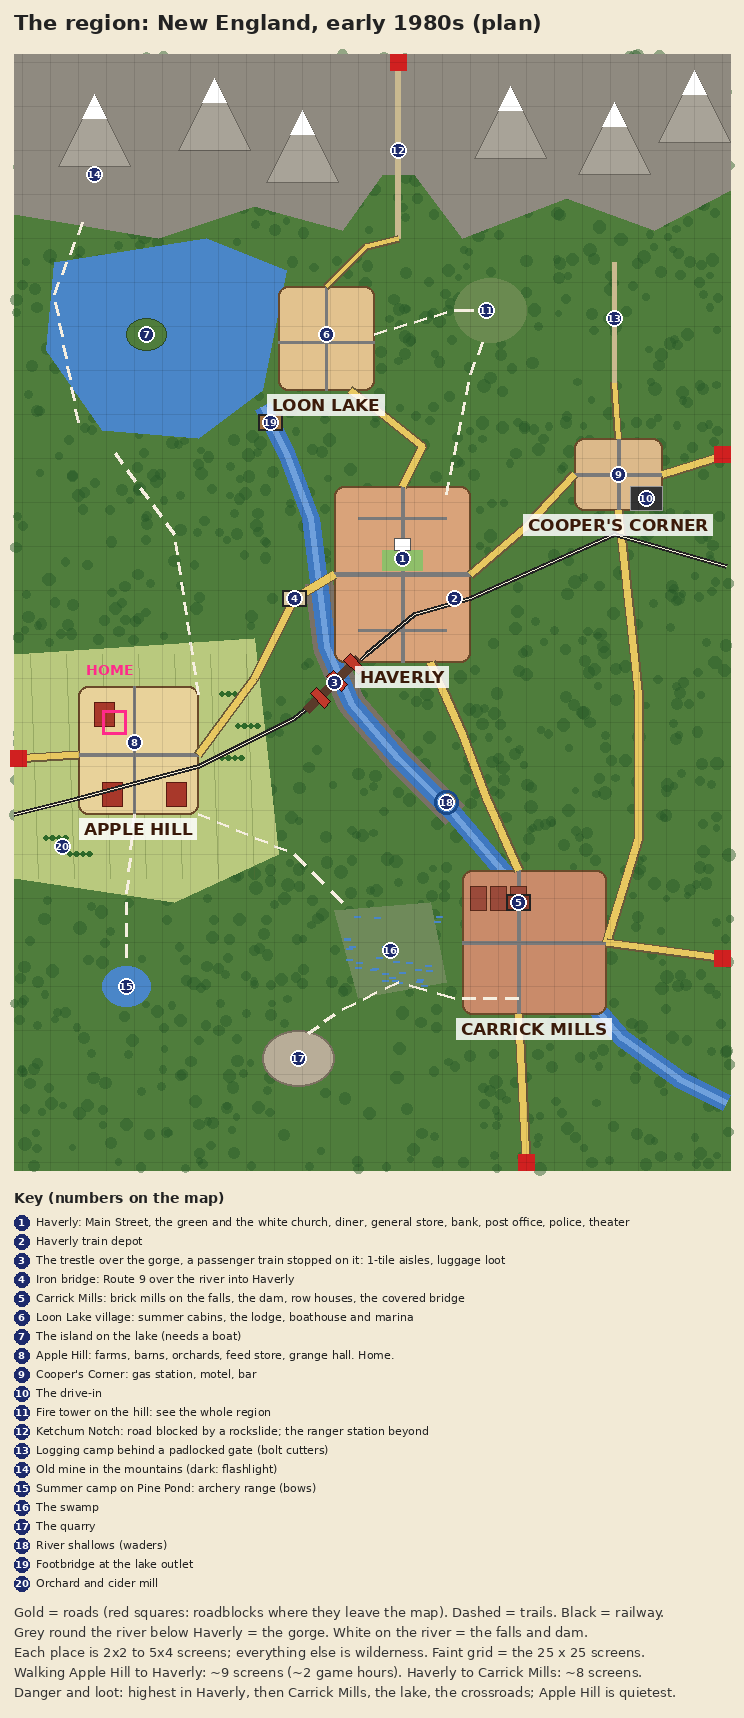
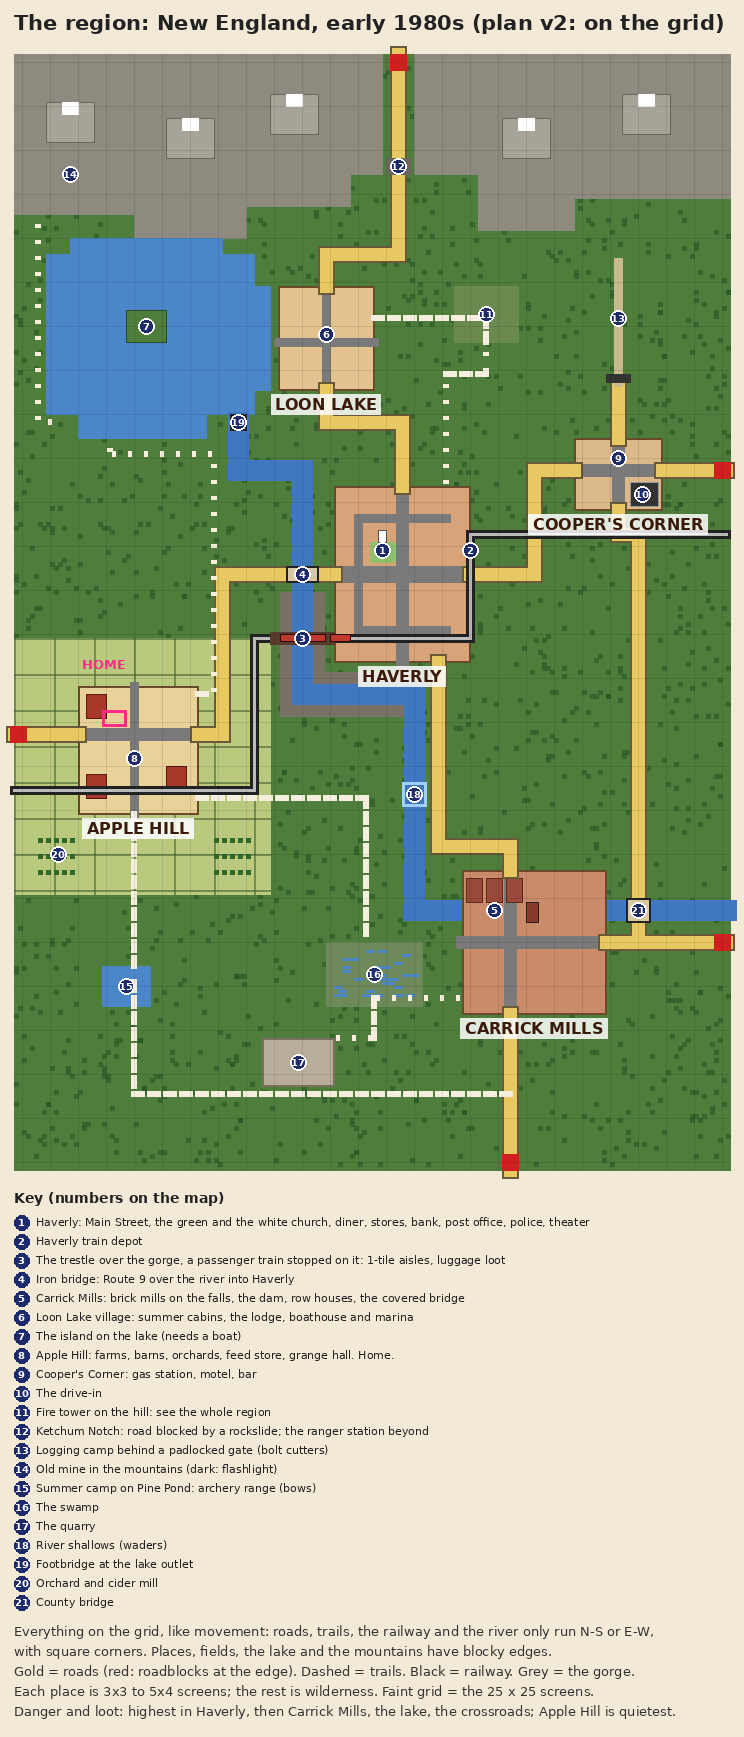
Region plan v2: everything on the grid (straight ways with square corners, blocky edges)
Claude-Session: https://claude.ai/code/session_017J8T9cwTP1Hr7eduLsqAEN

diff --git a/docs/region-plan-map.py b/docs/region-plan-map.py
@@ -1,167 +1,175 @@
 # Draws the region plan (New England, early 1980s) on the real 25x25 screen grid.
-# Coordinates are game tiles: the map is 179 x 279 tiles (screens step 7 across, 11 down).
+# Everything runs on the grid, like the movement: roads, trails, the railway and the river go
+# only north-south or east-west, with square corners; places, fields, the lake and the mountains
+# have blocky edges. Coordinates are game tiles (179 x 279; screens step 7 across, 11 down).
 # Run from the repo root: python3 docs/region-plan-map.py  ->  docs/region-plan.png
 from PIL import Image, ImageDraw, ImageFont
+import random
 
 W, H, S, PAD = 179, 279, 4, 14
 FONT = '/usr/share/fonts/truetype/dejavu/DejaVuSans.ttf'
 BOLD = '/usr/share/fonts/truetype/dejavu/DejaVuSans-Bold.ttf'
 f_small = ImageFont.truetype(FONT, 11); f_num = ImageFont.truetype(BOLD, 10)
-f_label = ImageFont.truetype(BOLD, 14); f_big = ImageFont.truetype(BOLD, 17)
-f_title = ImageFont.truetype(BOLD, 21); f_leg = ImageFont.truetype(FONT, 13); f_legb = ImageFont.truetype(BOLD, 14)
+f_big = ImageFont.truetype(BOLD, 16); f_title = ImageFont.truetype(BOLD, 21)
+f_leg = ImageFont.truetype(FONT, 13); f_legb = ImageFont.truetype(BOLD, 14); f_tag = ImageFont.truetype(BOLD, 13)
 
 P = lambda x, y: (PAD + x * S, PAD + 40 + y * S)
-def poly(d, pts, fill, outline=None, width=1): d.polygon([P(x, y) for x, y in pts], fill=fill, outline=outline, width=width)
-def line(d, pts, fill, width): d.line([P(x, y) for x, y in pts], fill=fill, width=width, joint='curve')
-def dashed(d, pts, fill, width=3, on=3, off=2):
-    import math
+def box(d, x0, y0, x1, y1, fill, outline=None, width=1):
+    x0, x1 = sorted((x0, x1)); y0, y1 = sorted((y0, y1))
+    d.rectangle([P(x0, y0), P(x1, y1)], fill=fill, outline=outline, width=width)
+def way(d, pts, w, fill):
+    """A way of width w tiles along orthogonal corner points (centre line)."""
+    h = w / 2
     for (x0, y0), (x1, y1) in zip(pts, pts[1:]):
-        n = max(1, int(math.hypot(x1 - x0, y1 - y0) / (on + off)))
-        for k in range(n):
-            a, b = k / n, (k + on / (on + off)) / n
-            line(d, [(x0 + (x1 - x0) * a, y0 + (y1 - y0) * a), (x0 + (x1 - x0) * b, y0 + (y1 - y0) * b)], fill, width)
+        assert x0 == x1 or y0 == y1, ('not straight', (x0, y0), (x1, y1))
+        box(d, min(x0, x1) - h, min(y0, y1) - h, max(x0, x1) + h, max(y0, y1) + h, fill)
+def dashed(d, pts, fill, w=1):
+    for (x0, y0), (x1, y1) in zip(pts, pts[1:]):
+        assert x0 == x1 or y0 == y1
+        n = int(abs(x1 - x0) + abs(y1 - y0))
+        for k in range(0, n, 4):
+            a, b = k / n, min(1, (k + 2) / n)
+            box(d, x0 + (x1 - x0) * a - w / 2, y0 + (y1 - y0) * a - w / 2, x0 + (x1 - x0) * b + w / 2, y0 + (y1 - y0) * b + w / 2, fill)
 
 img = Image.new('RGB', (PAD * 2 + W * S, 40 + PAD * 2 + H * S + 1300), '#f2ead6')
 d = ImageDraw.Draw(img, 'RGBA')
-d.text((PAD, 10), 'The region: New England, early 1980s (plan)', font=f_title, fill='#222')
+d.text((PAD, 10), 'The region: New England, early 1980s (plan v2: on the grid)', font=f_title, fill='#222')
 
-# Wilderness: forest everywhere, with clearings, fields round the farm village.
-poly(d, [(0, 0), (W, 0), (W, H), (0, H)], '#4f7d3c')
-import random
+# Forest everywhere, as square trees.
+box(d, 0, 0, W, H, '#4f7d3c')
 rnd = random.Random(1981)
-for _ in range(1400):
-    x, y = rnd.uniform(0, W), rnd.uniform(0, H)
-    r = rnd.uniform(0.8, 1.6)
-    d.ellipse([P(x - r, y - r), P(x + r, y + r)], fill=(40, 90, 40, 120))
-# Mountains along the top, Mount Ketchum, the notch.
-MOUNT = [(0, 0), (W, 0), (W, 34), (160, 44), (138, 36), (112, 46), (100, 30), (92, 30), (82, 44), (60, 38), (36, 46), (0, 40)]
-poly(d, MOUNT, '#8f8a80')
-for (x, y) in [(20, 18), (50, 14), (72, 22), (124, 16), (150, 20), (170, 12)]:
-    poly(d, [(x - 9, y + 10), (x, y - 8), (x + 9, y + 10)], '#a8a398', '#6a665e')
-    poly(d, [(x - 3, y - 2), (x, y - 8), (x + 3, y - 2)], '#ffffff')
-line(d, [(96, 46), (96, 30), (96, 0)], '#c9b98f', 6)   # Ketchum Notch road
-# Farmland round Apple Hill, orchards.
-poly(d, [(0, 150), (60, 146), (66, 200), (40, 212), (0, 206)], '#b9c97e')
-for gx in range(4, 62, 9):
-    line(d, [(gx, 150), (gx + 2, 206)], (90, 110, 50, 90), 1)
-for (x, y) in [(52, 160), (56, 168), (52, 176), (8, 196), (14, 200)]:
-    for k in range(4):
-        d.ellipse([P(x + k * 1.6 - 0.7, y - 0.7), P(x + k * 1.6 + 0.7, y + 0.7)], fill='#2f6a2a')
-# Loon Lake (with its island), Pine Pond, the swamp.
-LAKE = [(10, 52), (48, 46), (68, 54), (66, 64), (62, 84), (46, 96), (22, 94), (8, 74)]
-poly(d, LAKE, '#4a86c8')
-d.ellipse([P(28, 66), P(38, 74)], fill='#4f7d3c', outline='#2a4a2a')
-d.ellipse([P(22, 228), P(34, 238)], fill='#4a86c8')
-poly(d, [(80, 214), (104, 212), (108, 232), (86, 236)], '#6f8a5a')
+for _ in range(2200):
+    x, y = rnd.randrange(0, W), rnd.randrange(0, H)
+    box(d, x, y, x + 1, y + 1, (36, 84, 36, 150))
+# Mountains: a stepped band along the top; the notch road climbs through it.
+for (x0, x1, y1) in [(0, 30, 40), (30, 58, 46), (58, 84, 38), (84, 92, 30), (100, 116, 30), (116, 140, 44), (140, 179, 36)]:
+    box(d, x0, 0, x1, y1, '#8f8a80')
+for (x, y) in [(14, 16), (44, 20), (70, 14), (128, 20), (158, 14)]:
+    box(d, x - 6, y - 4, x + 6, y + 6, '#a8a398', '#6a665e'); box(d, x - 2, y - 4, x + 2, y - 1, '#ffffff')
+# Loon Lake: blocky, with its island. Pine Pond, the swamp, the quarry, the fire tower hill.
+for (x0, y0, x1, y1) in [(8, 50, 60, 90), (14, 46, 52, 52), (16, 88, 48, 96), (58, 58, 64, 84)]:
+    box(d, x0, y0, x1, y1, '#4a86c8')
+box(d, 28, 64, 38, 72, '#4f7d3c', '#2a4a2a')
+box(d, 22, 228, 34, 238, '#4a86c8')
+box(d, 78, 222, 102, 238, '#6f8a5a')
 for k in range(30):
-    x, y = rnd.uniform(82, 106), rnd.uniform(215, 233)
-    d.line([P(x, y), P(x + 1.5, y)], fill='#4a86c8', width=2)
-# The quarry, the fire tower hill.
-d.ellipse([P(62, 244), P(80, 258)], fill='#b8ad98', outline='#7a7060', width=2)
-d.ellipse([P(110, 56), P(128, 72)], fill='#6a8a50')
+    x, y = rnd.randrange(80, 100), rnd.randrange(224, 236); box(d, x, y, x + 2, y + 0.6, '#4a86c8')
+box(d, 62, 246, 80, 258, '#b8ad98', '#7a7060', 2)
+box(d, 110, 58, 126, 72, '#6a8a50')
+# Farmland round Apple Hill: rectangular fields; orchard rows.
+box(d, 0, 146, 64, 210, '#b9c97e')
+for gx in range(0, 64, 10): box(d, gx, 146, gx + 0.4, 210, (60, 90, 40, 140))
+for gy in range(146, 210, 9): box(d, 0, gy, 64, gy + 0.4, (60, 90, 40, 140))
+for (x, y) in [(50, 196), (50, 200), (50, 204), (6, 196), (6, 200), (6, 204)]:
+    for k in range(5): box(d, x + k * 2, y, x + k * 2 + 1, y + 1, '#2f6a2a')
 
-# The Kennock River: from the lake, past Haverly through its gorge, over the falls at the mills.
-RIVER = [(62, 88), (68, 100), (74, 116), (76, 132), (78, 148), (84, 162), (96, 176), (110, 190), (122, 204), (128, 214),
-         (138, 230), (152, 246), (166, 256), (178, 262)]
-line(d, RIVER[3:8], '#7a7166', 28)        # the gorge (crags) below Haverly
-line(d, RIVER, '#3f78c0', 18)
-line(d, RIVER, '#6fa0dc', 6)
-line(d, [(124, 211), (132, 211)], '#ffffff', 5)   # the falls and the dam
+# The Kennock River (5 wide): out of the lake, down past Haverly, the gorge, then east through
+# Carrick Mills (the falls) and off the map.
+RIVER = [(56, 92), (56, 104), (72, 104), (72, 160), (100, 160), (100, 214), (178, 214)]
+way(d, [(72, 140), (72, 160), (96, 160)], 11, '#7a7166')          # the gorge's crags
+way(d, RIVER, 5, '#3f78c0')
+box(d, 119, 211.5, 121, 216.5, '#ffffff')                           # the falls and the dam
 
-# Settlements: compact, each a few screens, with a strong identity.
+# Places: compact, rectangular, with streets on the grid and their exits marked (yellow).
 PLACES = [
-    ((80, 108, 114, 152), '#d9a37a', 'HAVERLY', 'the town'),
-    ((112, 204, 148, 240), '#c98b6a', 'CARRICK MILLS', 'the mill town'),
-    ((66, 58, 90, 84), '#e2c28e', 'LOON LAKE', 'the lake village'),
-    ((16, 158, 46, 190), '#e8d29a', 'APPLE HILL', 'the farm village'),
-    ((140, 96, 162, 114), '#dcb98a', "COOPER'S CORNER", 'the crossroads'),
+    ((80, 108, 114, 152), '#d9a37a', 'HAVERLY'),
+    ((112, 204, 148, 240), '#c98b6a', 'CARRICK MILLS'),
+    ((66, 58, 90, 84), '#e2c28e', 'LOON LAKE'),
+    ((16, 158, 46, 190), '#e8d29a', 'APPLE HILL'),
+    ((140, 96, 162, 114), '#dcb98a', "COOPER'S CORNER"),
 ]
-for (x0, y0, x1, y1), col, _, _ in PLACES:
-    d.rounded_rectangle([P(x0, y0), P(x1, y1)], radius=10, fill=col, outline='#6a4a2a', width=2)
-# Hint at their streets.
-def street(pts, w=4): line(d, pts, '#7a7a7a', w)
-street([(80, 130), (114, 130)], 5); street([(97, 108), (97, 152)], 4); street([(86, 116), (108, 116)], 3); street([(86, 144), (108, 144)], 3)
-d.rectangle([P(92, 124), P(102, 129)], fill='#8fbf6a')                       # the town green
-d.rectangle([P(95, 121), P(99, 124)], fill='#ffffff', outline='#555')        # the white church
-street([(112, 222), (148, 222)], 4); street([(126, 204), (126, 240)], 4)
-for k in range(3): d.rectangle([P(114 + k * 5, 208), P(118 + k * 5, 214)], fill='#9a4a3a', outline='#5a2a1a')   # the mills
-street([(66, 72), (90, 72)], 3); street([(78, 58), (78, 84)], 3)
-street([(16, 175), (46, 175)], 4); street([(30, 158), (30, 190)], 3)
-for (x, y) in [(20, 162), (38, 182), (22, 182)]: d.rectangle([P(x, y), P(x + 5, y + 6)], fill='#a8382a', outline='#5a1a10')   # barns
-street([(140, 105), (162, 105)], 4); street([(151, 96), (151, 114)], 4)
-d.rectangle([P(154, 108), P(162, 114)], fill='#333', outline='#999')          # the drive-in screen lot
+for (x0, y0, x1, y1), col, _ in PLACES:
+    box(d, x0, y0, x1, y1, col, '#6a4a2a', 2)
+grey = '#7a7a7a'
+way(d, [(80, 130), (114, 130)], 4, grey); way(d, [(97, 108), (97, 152)], 3, grey)        # Haverly: Main Street, Elm Street
+way(d, [(86, 116), (108, 116)], 2, grey); way(d, [(86, 144), (108, 144)], 2, grey); way(d, [(86, 116), (86, 144)], 2, grey)
+box(d, 89, 122, 95, 127, '#8fbf6a'); box(d, 91, 119, 93, 122, '#ffffff', '#555')         # the green and the white church
+way(d, [(112, 222), (148, 222)], 3, grey); way(d, [(124, 204), (124, 240)], 3, grey)      # Carrick Mills
+for k in range(3): box(d, 113 + k * 5, 206, 117 + k * 5, 212, '#9a4a3a', '#5a2a1a')       # mills on the north bank
+box(d, 128, 212, 131, 217, '#8a3a2a', '#222', 1)                                         # the covered bridge
+way(d, [(66, 72), (90, 72)], 2, grey); way(d, [(78, 58), (78, 84)], 2, grey)              # Loon Lake
+way(d, [(16, 170), (46, 170)], 3, grey); way(d, [(30, 158), (30, 190)], 2, grey)          # Apple Hill
+for (x, y) in [(18, 160), (38, 178), (18, 180)]: box(d, x, y, x + 5, y + 6, '#a8382a', '#5a1a10')   # barns
+way(d, [(140, 104), (162, 104)], 3, grey); way(d, [(151, 96), (151, 114)], 3, grey)       # the crossroads
+box(d, 154, 107, 161, 113, '#333', '#999')                                               # the drive-in
 
-# Roads between the places (gold), roadblocks where they leave the map (red).
-def road(pts, w=7):
-    line(d, pts, '#6a5a3a', w + 3); line(d, pts, '#e8c860', w)
-road([(0, 176), (16, 175)]); road([(46, 175), (60, 156), (70, 136), (80, 130)])          # Route 9 west: Apple Hill to Haverly
-road([(114, 130), (128, 118), (140, 105)]); road([(162, 105), (178, 100)])            # Route 9 east: the crossroads
-road([(97, 108), (102, 98), (92, 90), (84, 84)])                                       # Lake Road
-road([(78, 58), (88, 48), (96, 46)], 5)                                                # up to the notch
-road([(104, 152), (112, 170), (118, 186), (126, 204)])                                 # River Road to the mills
-road([(126, 240), (128, 279)]); road([(151, 114), (156, 160), (156, 196), (148, 222)])  # county road; south out
-road([(148, 222), (178, 226)])
-road([(151, 96), (150, 82)], 5); line(d, [(150, 82), (150, 52)], '#c9b98f', 5)       # logging road past the gate
-for (x, y) in [(1, 176), (177, 100), (128, 277), (177, 226), (96, 2)]:
-    d.rectangle([P(x - 2, y - 2), P(x + 2, y + 2)], fill='#d02020')
-# Trails (dashed).
-for t in [[(90, 70), (110, 64), (118, 64)], [(108, 110), (114, 80), (118, 70)], [(30, 190), (28, 212), (28, 228)],
-          [(126, 236), (110, 236), (96, 232), (80, 240), (72, 246)], [(46, 160), (40, 120), (24, 98)], [(16, 92), (10, 60), (18, 40)],
-          [(46, 190), (70, 200), (84, 214)]]:
-    dashed(d, t, '#f6efe0', 3)
+# Roads between the places (gold); red: roadblocks where they leave the map.
+GOLD = '#e8c860'
+ROADS = [
+    [(0, 170), (16, 170)],                                         # Route 9 west
+    [(46, 170), (52, 170), (52, 130), (80, 130)],                  # Route 9: Apple Hill to Haverly (iron bridge)
+    [(114, 130), (130, 130), (130, 104), (140, 104)],              # Route 9 east to the crossroads
+    [(162, 104), (178, 104)],                                      # Route 9 out east
+    [(97, 108), (97, 92), (78, 92), (78, 84)],                     # Lake Road
+    [(78, 58), (78, 50), (96, 50), (96, 0)],                       # Notch Road (rockslide in the notch)
+    [(106, 152), (106, 198), (124, 198), (124, 204)],              # River Road to Carrick Mills
+    [(151, 114), (151, 120), (156, 120), (156, 222), (148, 222)],  # County Road (county bridge)
+    [(156, 222), (178, 222)], [(124, 240), (124, 279)],            # out east and south
+    [(151, 96), (151, 82)],                                        # logging road to the gate
+]
+for r in ROADS: way(d, r, 4, '#6a5a3a')
+for r in ROADS: way(d, r, 3, GOLD)
+way(d, [(151, 82), (151, 52)], 2, '#c9b98f')
+for (x, y) in [(1, 170), (177, 104), (124, 277), (177, 222), (96, 2)]:
+    box(d, x - 2, y - 2, x + 2, y + 2, '#d02020')
+box(d, 148, 80, 154, 82, '#333')                                  # the padlocked gate
+box(d, 93, 26, 99, 30, '#6a665e')                                 # the rockslide
+# Crossings: the iron bridge, the county bridge, the lake footbridge; the shallows (waders).
+for (x0, y0, x1, y1) in [(68, 128, 76, 132), (153, 211, 159, 217), (54, 90, 58, 94)]:
+    box(d, x0, y0, x1, y1, '#d9c9a3', '#222', 2)
+box(d, 97, 182, 103, 188, None, '#9fd0ff', 3)
 
-# The railway: east edge, the crossroads, Haverly depot, over the gorge on the trestle, Apple Hill halt, west edge.
-RAIL = [(178, 128), (150, 120), (114, 136), (100, 140), (88, 150), (80, 158), (70, 166), (46, 178), (16, 186), (0, 190)]
-line(d, RAIL, '#222', 5); line(d, RAIL, '#f2ead6', 1)
-line(d, [(86, 151), (73, 164)], '#5a3a2a', 9)     # the trestle
-for k in range(3):
-    cx, cy = 85 - k * 4.2, 152.5 + k * 4.2
-    d.polygon([P(cx - 1, cy - 2.6), P(cx + 2.6, cy + 1), P(cx + 1, cy + 2.6), P(cx - 2.6, cy - 1)], fill='#c0392b', outline='#2a0a0a')
+# Trails (dashed): the shortcuts and the ways to the wild places.
+for t in [[(90, 66), (118, 66), (118, 72)], [(108, 108), (108, 80), (118, 80), (118, 72)], [(30, 190), (30, 228)],
+          [(112, 236), (90, 236), (90, 246), (80, 246)], [(46, 160), (50, 160), (50, 100), (24, 100), (24, 96)],
+          [(10, 92), (6, 92), (6, 40)], [(46, 186), (88, 186), (88, 222)], [(30, 232), (30, 260), (124, 260)]]:
+    dashed(d, t, '#f6efe0', 1.2)
 
-# Crossings of the river.
-for (x, y, col) in [(70, 136, '#d9c9a3'), (126, 212, '#8a3a2a'), (64, 92, '#a07040')]:
-    d.rectangle([P(x - 3, y - 2), P(x + 3, y + 2)], fill=col, outline='#222', width=2)
-d.ellipse([P(105, 184), P(111, 190)], outline='#1a4a8a', width=3)   # the shallows (waders)
+# The railway: from the east edge past the crossroads to Haverly depot, west across Haverly and
+# over the gorge on the trestle, down to Apple Hill halt and off the map west.
+RAIL = [(178, 120), (114, 120), (114, 146), (60, 146), (60, 184), (0, 184)]
+way(d, RAIL, 2, '#222'); way(d, RAIL, 0.5, '#bbb')
+box(d, 64, 144.5, 80, 147.5, '#5a3a2a')                           # the trestle
+for k in range(3): box(d, 79 - k * 6.2, 145.2, 84 - k * 6.2, 146.8, '#c0392b', '#2a0a0a')   # the stopped train
 
-# Screen grid and home.
+# Screen grid, home, labels.
 for i in range(26): d.line([P(7 * i + 2, 0), P(7 * i + 2, H)], fill=(0, 0, 0, 25), width=1)
 for j in range(26): d.line([P(0, 11 * j + 2), P(W, 11 * j + 2)], fill=(0, 0, 0, 25), width=1)
-d.rectangle([P(22, 164), P(28, 170)], outline='#ff2a8a', width=3)
-d.text(P(18, 152), 'HOME', font=f_label, fill='#ff2a8a')
-
-for (x0, y0, x1, y1), col, name, what in PLACES:
+box(d, 22, 164, 28, 168, None, '#ff2a8a', 3)
+d.text(P(17, 150.5), 'HOME', font=f_tag, fill='#ff2a8a')
+for (x0, y0, x1, y1), _, name in PLACES:
     cx, cy = P((x0 + x1) / 2, y1 + 1)
     tw = d.textlength(name, font=f_big)
-    d.rectangle([cx - tw / 2 - 4, cy, cx + tw / 2 + 4, cy + 21], fill=(255, 255, 255, 215))
+    d.rectangle([cx - tw / 2 - 4, cy, cx + tw / 2 + 4, cy + 20], fill=(255, 255, 255, 215))
     d.text((cx - tw / 2, cy + 1), name, font=f_big, fill='#3a1a0a')
 
 LM = [
-    (97, 126, "Haverly: Main Street, the green and the white church, diner, general store, bank, post office, police, theater"),
-    (110, 136, 'Haverly train depot'),
-    (80, 157, 'The trestle over the gorge, a passenger train stopped on it: 1-tile aisles, luggage loot'),
-    (70, 136, 'Iron bridge: Route 9 over the river into Haverly'),
-    (126, 212, 'Carrick Mills: brick mills on the falls, the dam, row houses, the covered bridge'),
+    (92, 124, 'Haverly: Main Street, the green and the white church, diner, stores, bank, post office, police, theater'),
+    (114, 124, 'Haverly train depot'),
+    (72, 146, 'The trestle over the gorge, a passenger train stopped on it: 1-tile aisles, luggage loot'),
+    (72, 130, 'Iron bridge: Route 9 over the river into Haverly'),
+    (120, 214, 'Carrick Mills: brick mills on the falls, the dam, row houses, the covered bridge'),
     (78, 70, 'Loon Lake village: summer cabins, the lodge, boathouse and marina'),
-    (33, 70, 'The island on the lake (needs a boat)'),
-    (30, 172, 'Apple Hill: farms, barns, orchards, feed store, grange hall. Home.'),
-    (151, 105, "Cooper's Corner: gas station, motel, bar"),
-    (158, 111, 'The drive-in'),
-    (118, 64, 'Fire tower on the hill: see the whole region'),
-    (96, 24, 'Ketchum Notch: road blocked by a rockslide; the ranger station beyond'),
-    (150, 66, 'Logging camp behind a padlocked gate (bolt cutters)'),
-    (20, 30, 'Old mine in the mountains (dark: flashlight)'),
+    (33, 68, 'The island on the lake (needs a boat)'),
+    (30, 176, 'Apple Hill: farms, barns, orchards, feed store, grange hall. Home.'),
+    (151, 101, "Cooper's Corner: gas station, motel, bar"),
+    (157, 110, 'The drive-in'),
+    (118, 65, 'Fire tower on the hill: see the whole region'),
+    (96, 28, 'Ketchum Notch: road blocked by a rockslide; the ranger station beyond'),
+    (151, 66, 'Logging camp behind a padlocked gate (bolt cutters)'),
+    (14, 30, 'Old mine in the mountains (dark: flashlight)'),
     (28, 233, 'Summer camp on Pine Pond: archery range (bows)'),
-    (94, 224, 'The swamp'),
-    (71, 251, 'The quarry'),
-    (108, 187, 'River shallows (waders)'),
-    (64, 92, 'Footbridge at the lake outlet'),
-    (12, 198, 'Orchard and cider mill'),
+    (90, 230, 'The swamp'),
+    (71, 252, 'The quarry'),
+    (100, 185, 'River shallows (waders)'),
+    (56, 92, 'Footbridge at the lake outlet'),
+    (11, 200, 'Orchard and cider mill'),
+    (156, 214, 'County bridge'),
 ]
 for n, (x, y, _) in enumerate(LM, 1):
     cx, cy = P(x, y)
     d.ellipse([cx - 8, cy - 8, cx + 8, cy + 8], fill='#1d2a6b', outline='white', width=2)
     t = str(n); d.text((cx - d.textlength(t, font=f_num) / 2, cy - 6), t, font=f_num, fill='white')
-
 y0 = 40 + PAD * 2 + H * S + 6
 d.text((PAD, y0), 'Key (numbers on the map)', font=f_legb, fill='#222')
 for n, (_, _, text) in enumerate(LM, 1):
@@ -171,10 +179,10 @@ for n, (_, _, text) in enumerate(LM, 1):
     d.text((tx + 22, ty + 1), text, font=f_small, fill='#222')
 ky = y0 + 24 + len(LM) * 19 + 10
 notes = [
-    'Gold = roads (red squares: roadblocks where they leave the map). Dashed = trails. Black = railway.',
-    'Grey round the river below Haverly = the gorge. White on the river = the falls and dam.',
-    'Each place is 2x2 to 5x4 screens; everything else is wilderness. Faint grid = the 25 x 25 screens.',
-    'Walking Apple Hill to Haverly: ~9 screens (~2 game hours). Haverly to Carrick Mills: ~8 screens.',
+    'Everything on the grid, like movement: roads, trails, the railway and the river only run N-S or E-W,',
+    'with square corners. Places, fields, the lake and the mountains have blocky edges.',
+    'Gold = roads (red: roadblocks at the edge). Dashed = trails. Black = railway. Grey = the gorge.',
+    'Each place is 3x3 to 5x4 screens; the rest is wilderness. Faint grid = the 25 x 25 screens.',
     'Danger and loot: highest in Haverly, then Carrick Mills, the lake, the crossroads; Apple Hill is quietest.',
 ]
 for i, t in enumerate(notes): d.text((PAD, ky + i * 20), t, font=f_leg, fill='#333')

diff --git a/CLAUDE.md b/CLAUDE.md
@@ -27,6 +27,7 @@ Look: simple 8-bit, inspired by old RPGs. Until the art pass, everything is grey
 - Each run uses a separate run seed for what varies: loot, zombie positions, NPCs, and which bridges and roads are blocked.
 - Flip-screen world: a 25×25 grid of screens. Walk off an edge to go to the next screen.
 - Map design (Pokémon / Zelda / Stardew, not realism): a few compact places, each small enough to learn by heart (2×2 to 4×4 screens) with a strong identity and landmarks to steer by, joined by designed routes through wilderness. About a third of the map is settlements, the rest roads, trails, forest, lakes, river and mountains. Routes wind, branch and dead-end on purpose, with chokepoints (bridges, the notch, the trestle), shortcuts and secrets. Places you can see but not reach yet are gated by key items (step 20). Every screen earns its place.
+- On the grid, like the movement (playtest: "no diagonal roads; 4-directional travel, 4-directional paths"): roads, trails, the railway and the river only run north-south or east-west, with square corners. Places, yards, fields, the lake and the mountains have blocky, rectangular edges. Each place's exits are where its roads meet its edge.
 - The places (plan: docs/region-plan.md, region-plan.png; names provisional):
   1. Haverly, the town: Main Street, the town green with its white church, diner, general store, hardware store, bank, post office, police and fire station, the train depot, the movie theater. Most zombies, best loot.
   2. Carrick Mills, the mill town down the river: brick mills on the falls, the dam, workers' row houses, the covered bridge.
@@ -314,5 +315,6 @@ Other zombie types, a sneak mode or hiding spots (tried, step 7), morale, factio
 ### Playtest: the realistic town lost the fun (after step 13a) - decided
 - "The map isn't very fun. We've aimed for realism but it's lost charm and good game design." One continuous town at even density: no arrivals, no landmarks to steer by, no reason for routes. Look at how Pokémon, Zelda and Stardew maps are designed: compact towns with space around them, 4-5 distinct places with forest and wilderness between.
 - Decided: drop the UK setting and move to rural New England, early 1980s ("70s, 80s"). Kept: dry deadpan humour (American details: coffee, the diner, the bar), guns rare and very loud (a high-risk weapon that brings a crowd), the stopped train (now on a trestle over the gorge), the 25 x 25 screens, and everything under the map from 13a (tiles as data, buildings drawn with the one camera angle, street frontages, gates, docs/map.html).
+- Plan v2 ("look at the design: no diagonal roads... 4-directional travel, 4-directional paths"): every way runs on the grid with square corners, edges are blocky, like the reference village (a compact Stardew-style map with exits marked on its edges).
 - 13a's Brackenby layout (src/sim/gen/town.js) is replaced by the region once its plan (docs/region-plan.md, region-plan.png) is approved. The Yorkshire research and plan stay in docs/ as history.
 

diff --git a/docs/region-plan.md b/docs/region-plan.md
@@ -6,6 +6,9 @@ density, no arrivals, no landmarks, no reason for routes.
 
 ## Design rules (Pokémon / Zelda / Stardew)
 
+- On the grid, like the movement: roads, trails, the railway and the river only run north-south or east-west,
+  with square corners. Places, yards, fields, the lake and the mountains have blocky edges. No diagonals.
+
 - A few compact places, each small enough to learn by heart (2x2 to 5x4 screens), with a strong identity and
   one or two landmarks to steer by. Arriving somewhere is an event.
 - Wilderness between them: forest, the lake, the mountains, the river. Routes are designed: they wind, branch and
